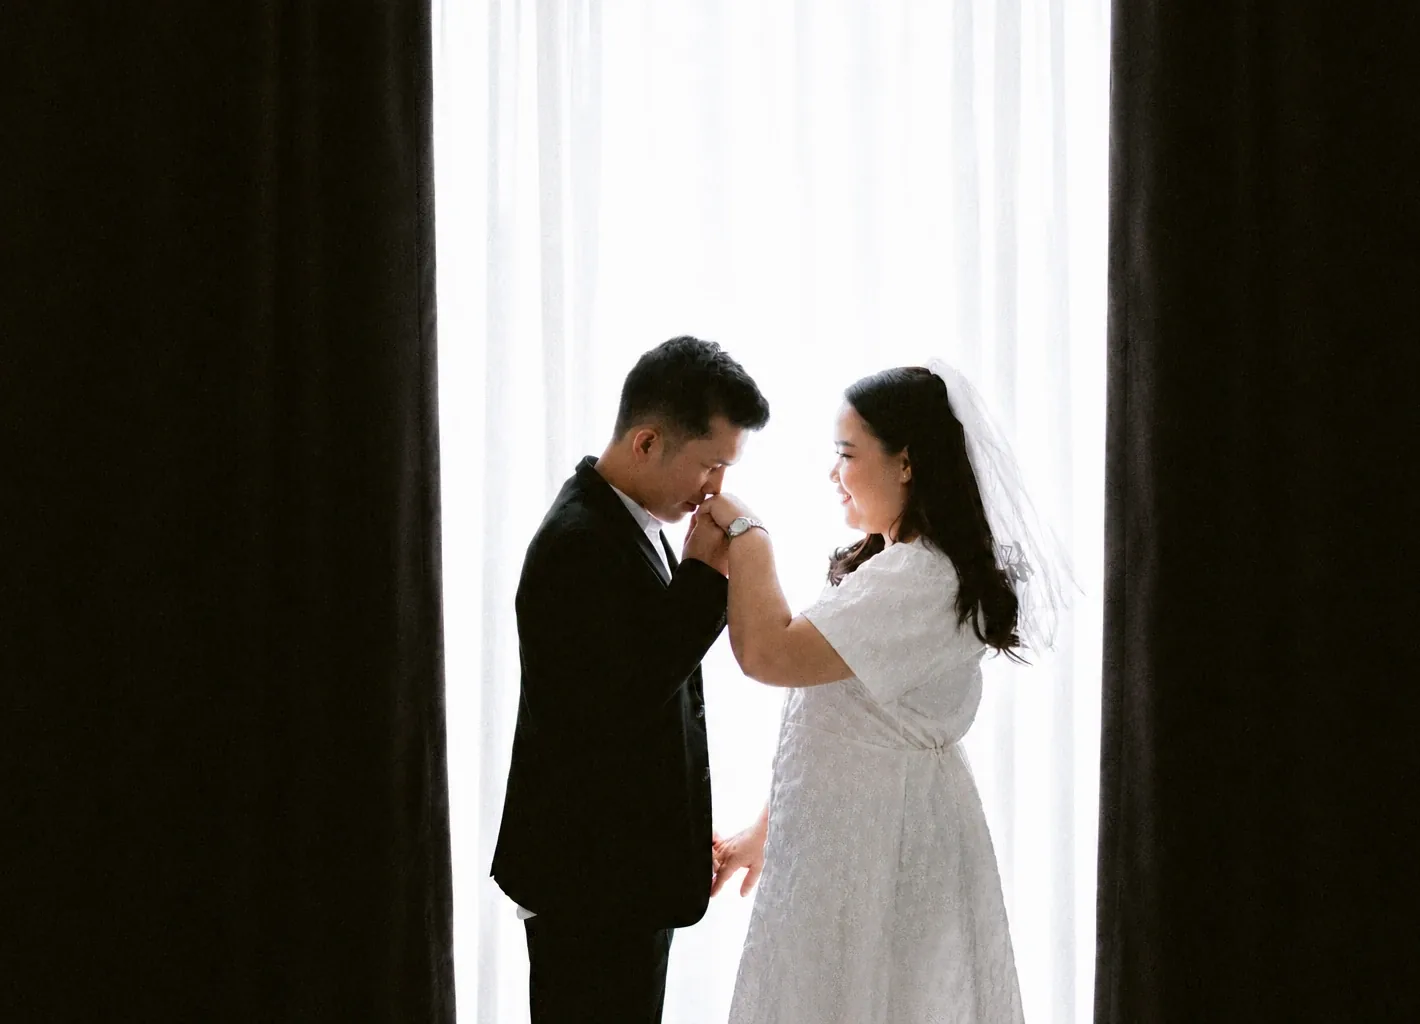
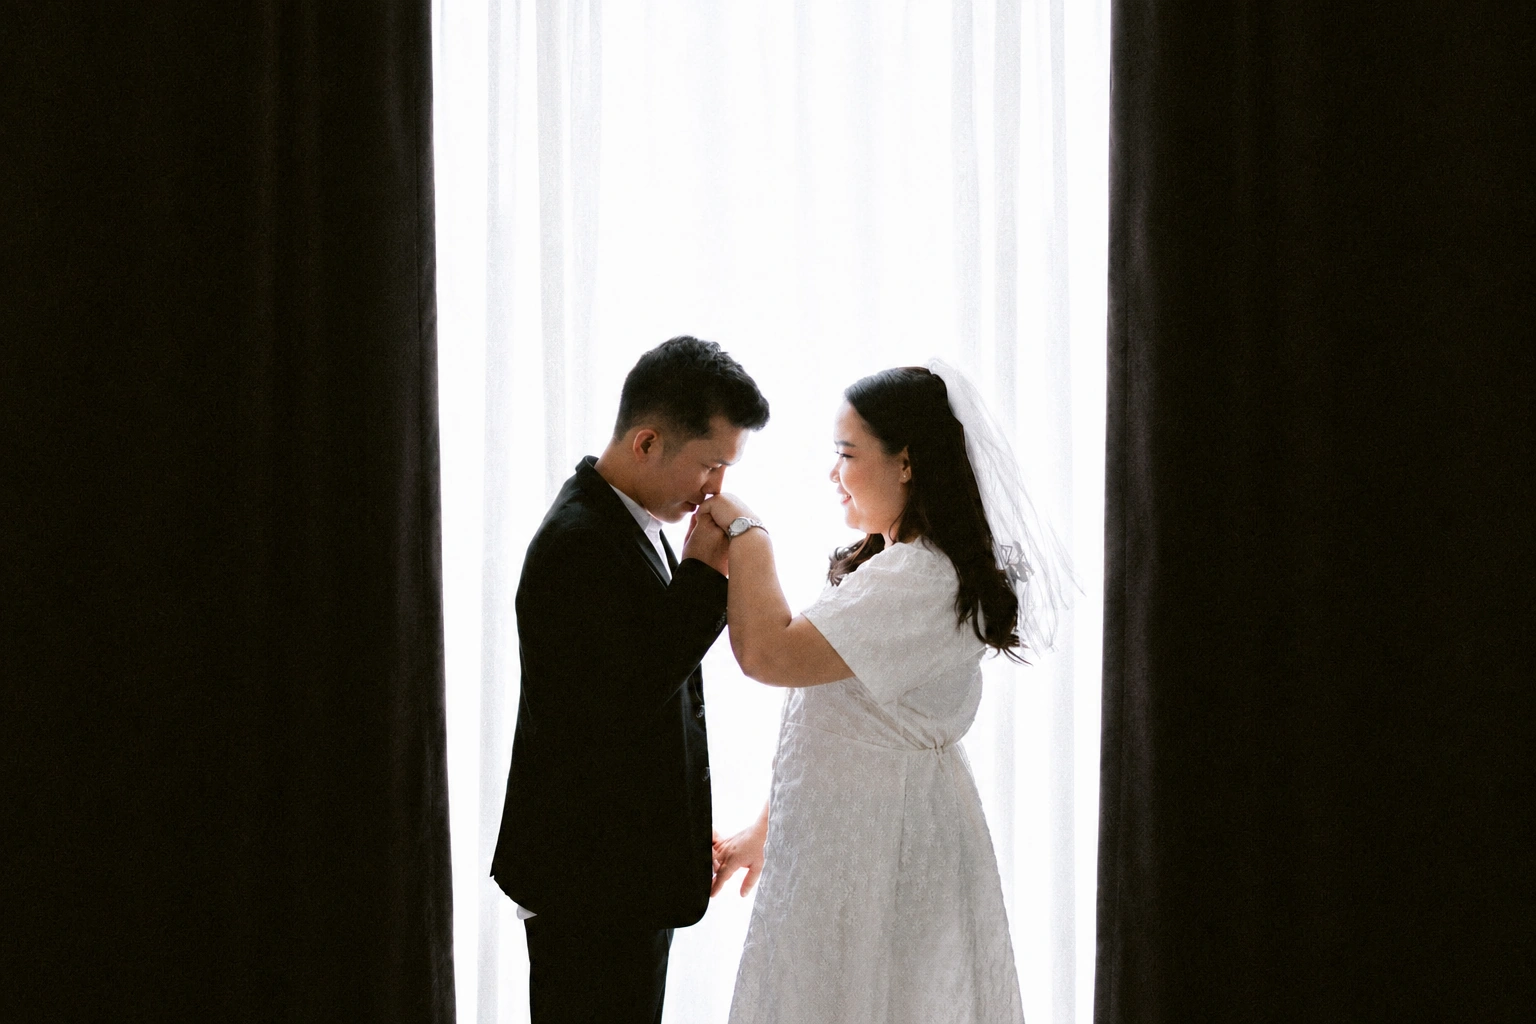
feat(hero & rsvp): upgrade cover image to crisp uncropped 1536px webp, center optical alignment, and add option spacing in rsvp form

Changed region(s): [[0.2479, 0.0, 0.8056, 1.0]]

diff --git a/rsvp-section.html b/rsvp-section.html
@@ -42,25 +42,25 @@
           <label class="block text-xs font-semibold uppercase tracking-wider mb-2" style="color: #2f241b;">
             Will you be attending? <span style="color: #8a5a2b;">*</span>
           </label>
-          <div class="grid grid-cols-1 sm:grid-cols-2 gap-3" id="attendance-options">
-            <label class="rsvp-radio-card relative flex items-center gap-3.5 p-3.5 rounded-xl border cursor-pointer transition-all duration-200" style="background-color: rgba(138, 90, 43, 0.06); border-color: #8a5a2b;" onclick="selectAttendance('Joyfully Accepts', this)">
+          <div class="grid grid-cols-1 sm:grid-cols-2 gap-4" id="attendance-options" style="display: grid; gap: 14px;">
+            <label class="rsvp-radio-card relative flex items-center p-4 rounded-xl border cursor-pointer transition-all duration-200" style="background-color: rgba(138, 90, 43, 0.06); border-color: #8a5a2b; display: flex; align-items: center; padding: 16px 20px; border-radius: 14px; cursor: pointer;" onclick="selectAttendance('Joyfully Accepts', this)">
               <input type="radio" name="attendance" value="Joyfully Accepts" checked style="position: absolute; opacity: 0; width: 0; height: 0; pointer-events: none;" />
-              <div class="rsvp-radio-circle flex items-center justify-center shrink-0 w-5 h-5 rounded-full border-2 transition-all duration-200" style="border-color: #8a5a2b; background-color: #ffffff;">
-                <div class="rsvp-radio-dot w-2.5 h-2.5 rounded-full transition-all duration-200" style="background-color: #8a5a2b; opacity: 1; transform: scale(1);"></div>
+              <div class="rsvp-radio-circle flex items-center justify-center shrink-0 w-5 h-5 rounded-full border-2 transition-all duration-200" style="border-color: #8a5a2b; background-color: #ffffff; width: 22px; height: 22px; min-width: 22px; min-height: 22px; margin-right: 18px; flex-shrink: 0; border-radius: 9999px; display: flex; align-items: center; justify-content: center; border-width: 2px;">
+                <div class="rsvp-radio-dot w-2.5 h-2.5 rounded-full transition-all duration-200" style="background-color: #8a5a2b; opacity: 1; transform: scale(1); width: 10px; height: 10px; border-radius: 9999px;"></div>
               </div>
-              <div>
-                <span class="block text-sm font-medium" style="color: #2f241b;">Joyfully Accepts</span>
-                <span class="block text-[11px]" style="color: #76614d;">I will celebrate in person</span>
+              <div style="flex: 1;">
+                <span class="block text-sm font-medium" style="color: #2f241b; display: block; font-size: 15px; font-weight: 600; line-height: 1.3;">Joyfully Accepts</span>
+                <span class="block text-[11px]" style="color: #76614d; display: block; font-size: 11px; margin-top: 4px; line-height: 1.3;">I will celebrate in person</span>
               </div>
             </label>
-            <label class="rsvp-radio-card relative flex items-center gap-3.5 p-3.5 rounded-xl border cursor-pointer transition-all duration-200" style="background-color: #ffffff; border-color: rgba(47, 36, 27, 0.16);" onclick="selectAttendance('Regretfully Declines', this)">
+            <label class="rsvp-radio-card relative flex items-center p-4 rounded-xl border cursor-pointer transition-all duration-200" style="background-color: #ffffff; border-color: rgba(47, 36, 27, 0.16); display: flex; align-items: center; padding: 16px 20px; border-radius: 14px; cursor: pointer;" onclick="selectAttendance('Regretfully Declines', this)">
               <input type="radio" name="attendance" value="Regretfully Declines" style="position: absolute; opacity: 0; width: 0; height: 0; pointer-events: none;" />
-              <div class="rsvp-radio-circle flex items-center justify-center shrink-0 w-5 h-5 rounded-full border-2 transition-all duration-200" style="border-color: rgba(47, 36, 27, 0.3); background-color: #ffffff;">
-                <div class="rsvp-radio-dot w-2.5 h-2.5 rounded-full transition-all duration-200" style="background-color: #8a5a2b; opacity: 0; transform: scale(0);"></div>
+              <div class="rsvp-radio-circle flex items-center justify-center shrink-0 w-5 h-5 rounded-full border-2 transition-all duration-200" style="border-color: rgba(47, 36, 27, 0.3); background-color: #ffffff; width: 22px; height: 22px; min-width: 22px; min-height: 22px; margin-right: 18px; flex-shrink: 0; border-radius: 9999px; display: flex; align-items: center; justify-content: center; border-width: 2px;">
+                <div class="rsvp-radio-dot w-2.5 h-2.5 rounded-full transition-all duration-200" style="background-color: #8a5a2b; opacity: 0; transform: scale(0); width: 10px; height: 10px; border-radius: 9999px;"></div>
               </div>
-              <div>
-                <span class="block text-sm font-medium" style="color: #2f241b;">Regretfully Declines</span>
-                <span class="block text-[11px]" style="color: #76614d;">Celebrating from afar</span>
+              <div style="flex: 1;">
+                <span class="block text-sm font-medium" style="color: #2f241b; display: block; font-size: 15px; font-weight: 600; line-height: 1.3;">Regretfully Declines</span>
+                <span class="block text-[11px]" style="color: #76614d; display: block; font-size: 11px; margin-top: 4px; line-height: 1.3;">Celebrating from afar</span>
               </div>
             </label>
           </div>
